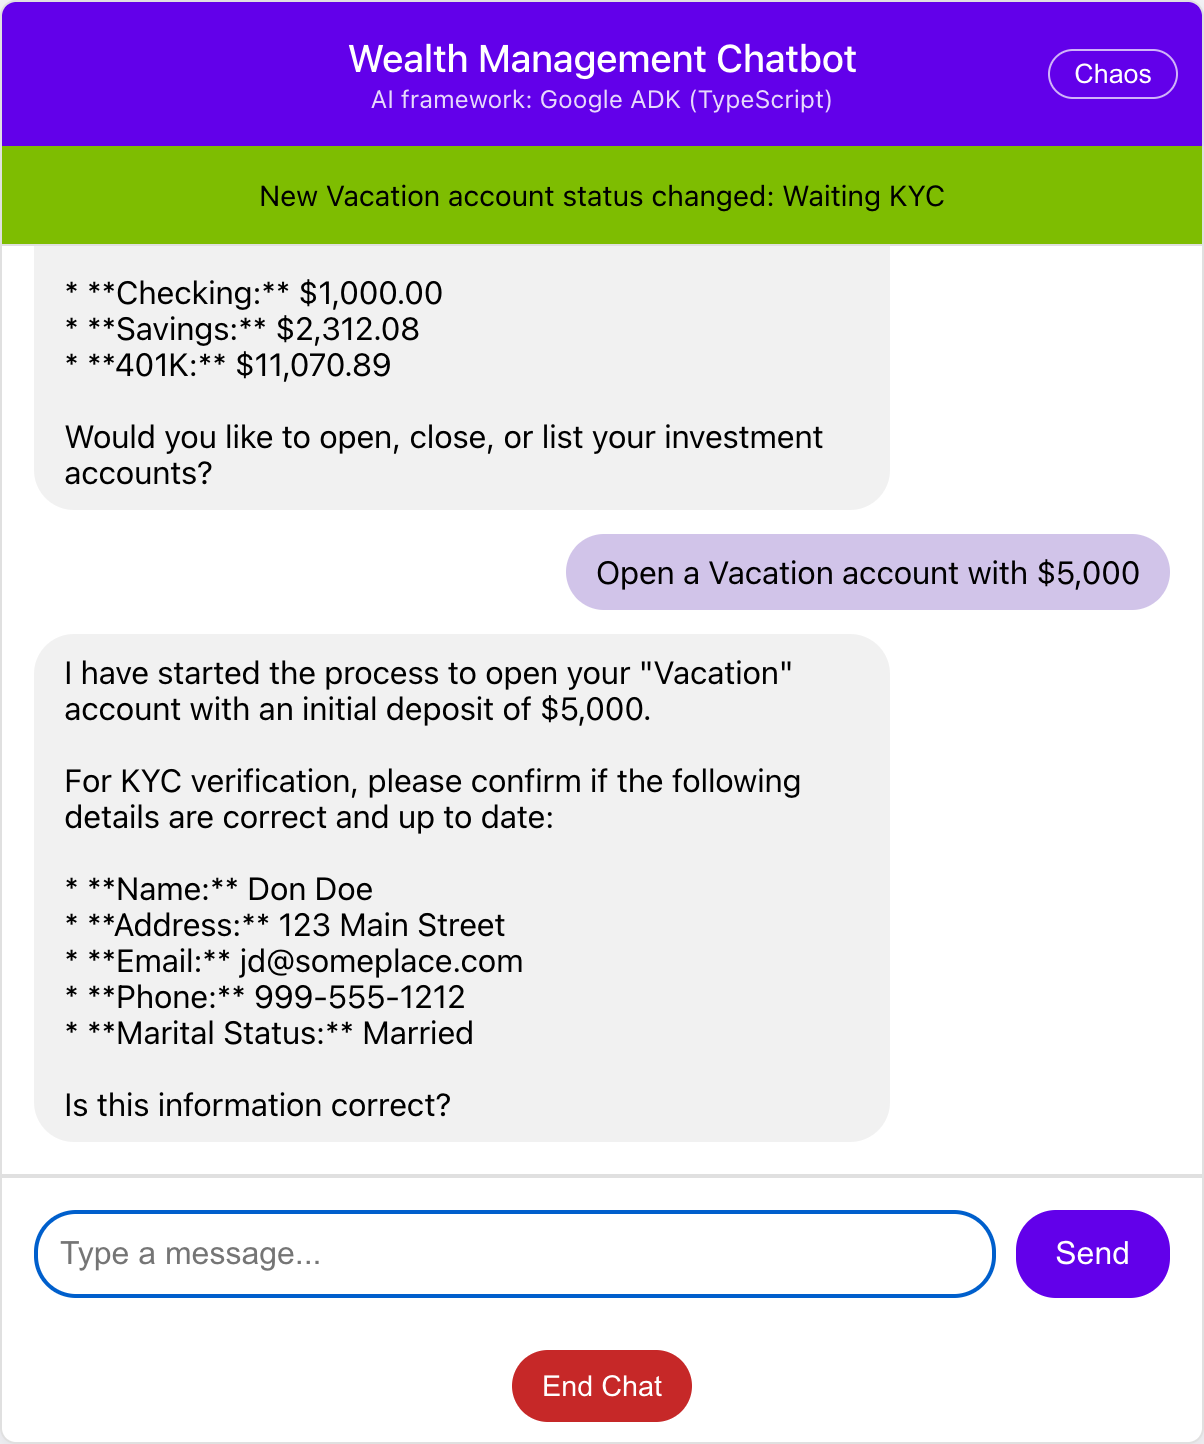
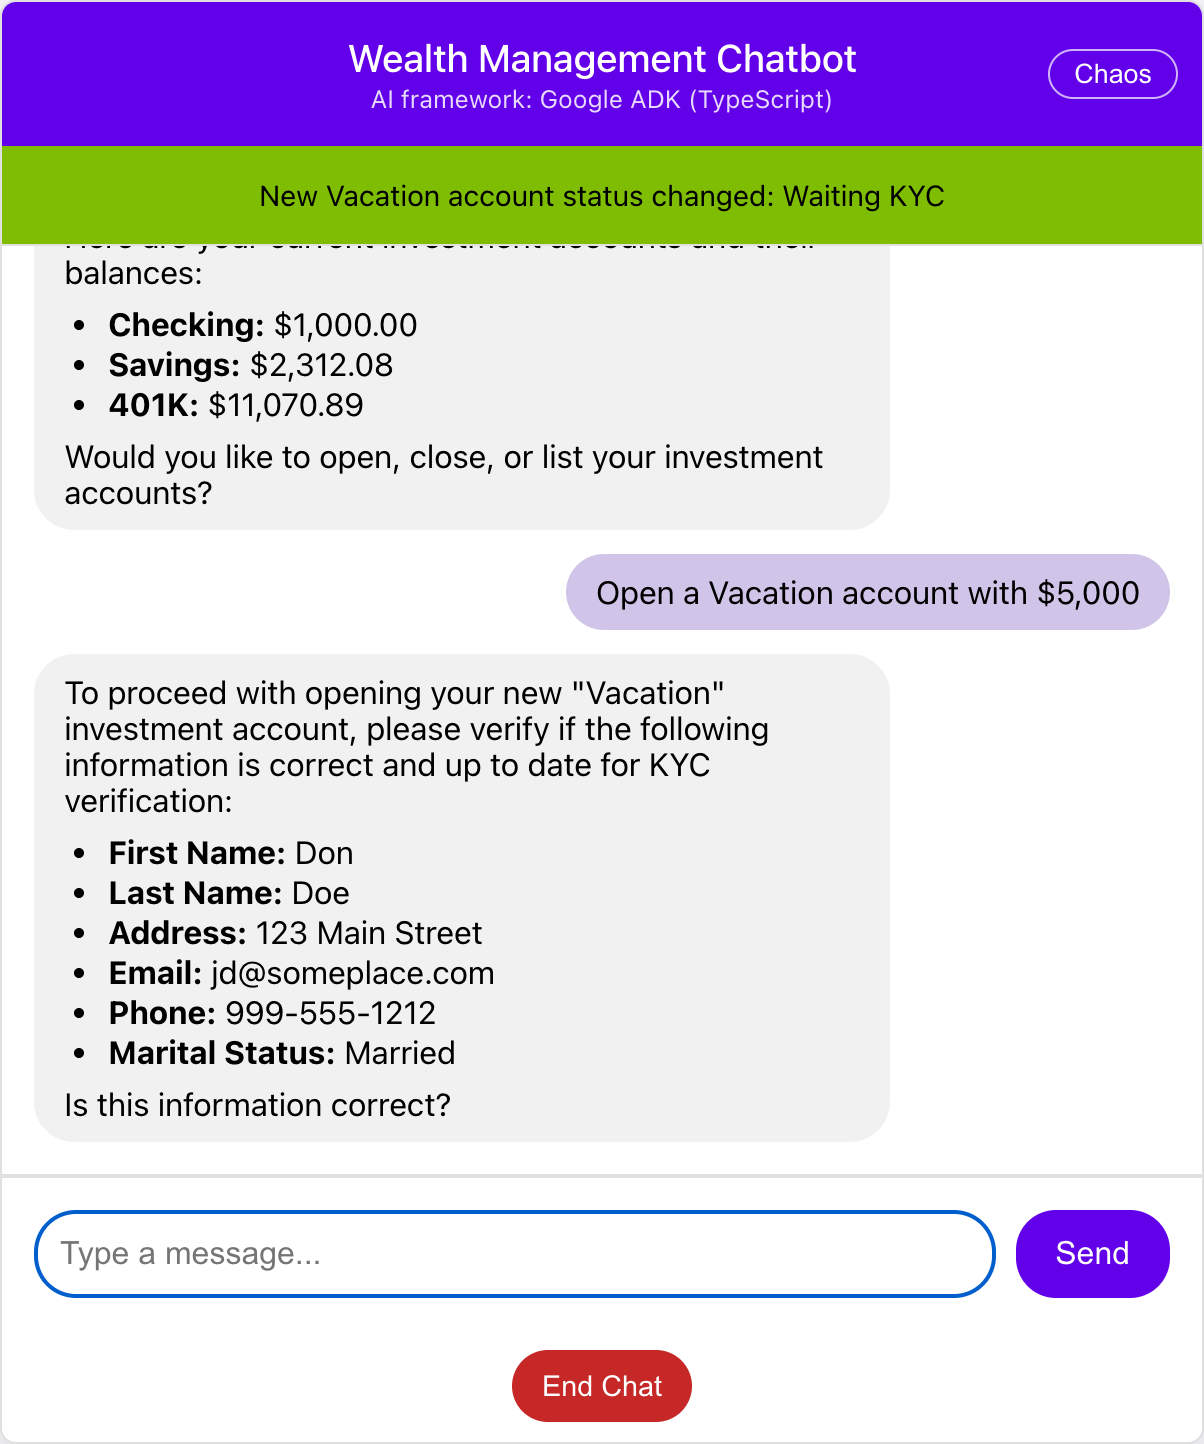
Fix the gap between markdown blocks; retake web UI screenshots
`.markdown p { margin: 0 }` outranked the 8px gap rule, so paragraphs
and lists ran together. The framework UX screenshots and the front end
README's screenshot are retaken so they show replies rendered as
markdown.

Changed region(s): [[0.0307, 0.187, 0.9834, 0.7479]]

diff --git a/frontend/src/App.css b/frontend/src/App.css
@@ -65,9 +65,8 @@ body {
 }
 
 /* Markdown in the agents' replies */
-.markdown p,
-.markdown ul,
-.markdown ol {
+/* Same specificity as the gap rule below, so the gap wins */
+.markdown > * {
     margin: 0;
 }
 
